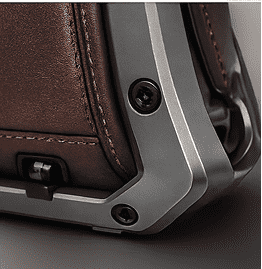
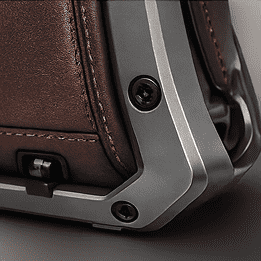
首页修改

diff --git a/src/pages/HomePage.tsx b/src/pages/HomePage.tsx
@@ -40,6 +40,7 @@ const MANIFESTO = [
   'We work slowly so the object can remain honest.',
   'We exist outside trends, outside seasons, outside commerce cycles.',
   'We build for those who think in decades, not quarters.',
+  'This is not a brand. This is a position. This is not decoration. This is structure made visible.'
 ]
 
 
@@ -237,7 +238,7 @@ export function HomePage() {
             <div className="mb-[clamp(24px,4.17vw,60px)] flex justify-center md:justify-start md:pl-[clamp(48px,8.33vw,120px)]">
               <ActLabel>{'ACT 4\nTHE CULTURAL\nSTATEMENT'}</ActLabel>
             </div>
-            <div className="grid grid-cols-1 md:grid-cols-2 gap-10  items-start">
+            <div className="grid grid-cols-1 md:grid-cols-2">
               {/* 图片 — 左 */}
               <div className="order-2 md:order-1">
                 <img src="/images/main_footer.png" alt="" className="w-full" />
@@ -245,25 +246,26 @@ export function HomePage() {
 
               {/* 宣言文字 — 右 */}
               <div className="flex flex-col gap-6 order-1 md:order-2 md:pr-[clamp(48px,8.33vw,120px)] items-center md:items-start text-center md:text-left">
-                <div className='text-accent leading-[1.17] text-[clamp(16px,1.53vw,22px)] mt-9'>
+                <div className='text-accent leading-[1.17] text-[clamp(16px,1.53vw,22px)] mt-[clamp(16px,1.53vw,24px)]'>
                   We make objects that carry structure as their primary element and surface as their last decision.
                 </div>
-                {MANIFESTO.map((line, i) => (
-                  <div key={i} className="flex items-start gap-3 group">
-                    <div className={`mt-[0.55em] w-10 md:w-16 h-px bg-accent shrink-0 `} />
-                    <p
-                      className={`text-accent leading-[1.17] ${i === 0
-                          ? 'text-[clamp(16px,1.53vw,22px)]'
-                          : 'text-[clamp(14px,1.32vw,19px)]'
-                        }`}
-                    >
-                      {line}
-                    </p>
-                  </div>
-                ))}
-                <div className='text-accent leading-[1.17] text-[clamp(16px,1.53vw,22px)]'>
-                  This is not a brand. This is a position. This is not decoration. This is structure made visible.
-                </div>
+                {MANIFESTO.map((line, i) => {
+                  const isLast = i === MANIFESTO.length - 1
+                  return (
+                    <div key={i} className="flex items-start gap-3 group">
+                      <div className={`mt-[0.55em] w-10 md:w-16 h-px shrink-0 ${isLast ? 'bg-transparent' : 'bg-accent'}`} />
+                      <p
+                        className={`text-accent leading-[1.17] ${i === 0
+                            ? 'text-[clamp(16px,1.53vw,22px)]'
+                            : 'text-[clamp(14px,1.32vw,19px)]'
+                          }`}
+                      >
+                        {line}
+                      </p>
+                    </div>
+                  )
+                })}
+              
               </div>
             </div>
           </div>